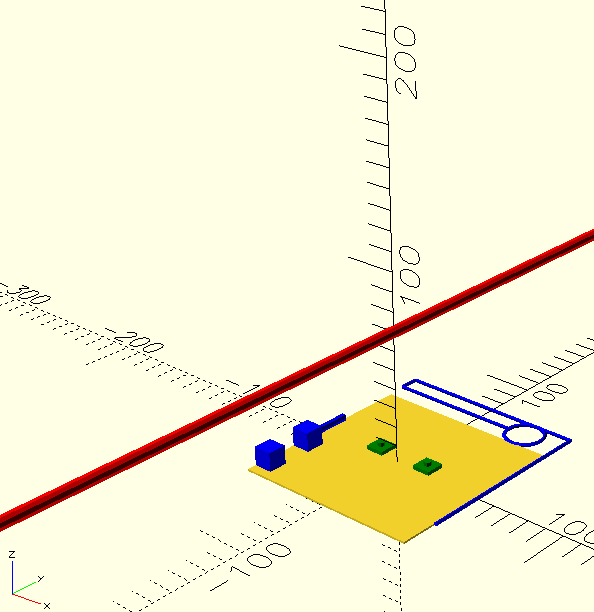
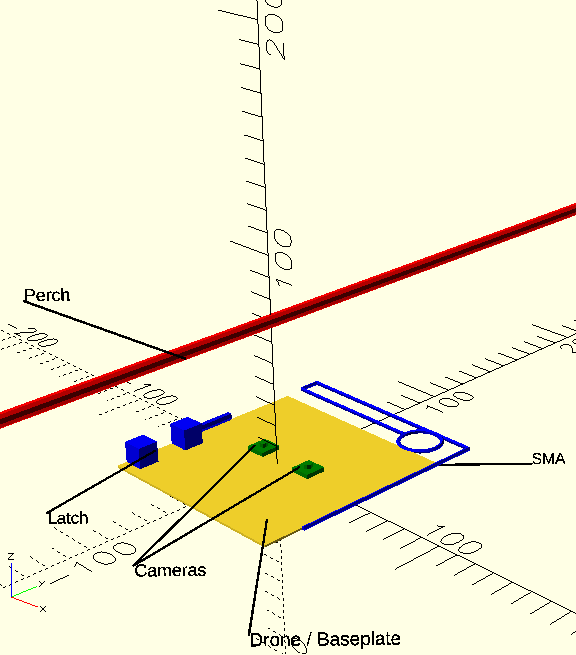
Add labels to SMA concept image

diff --git a/sections/methods/hardware.tex b/sections/methods/hardware.tex
@@ -9,19 +9,21 @@ An illustration of how this device is intended to attach a drone to a perch is s
 \begin{figure}[H]
     \centering
     \begin{subfigure}[b]{\textwidth}
-        \begin{subfigure}[b]{0.32\textwidth}
+        \begin{subfigure}[b]{0.49\textwidth}
             \includegraphics[width=\textwidth]{sections/methods/perch-illustration-approach.png}
             \caption{The perching mechanism beneath a perch.}
             \label{fig:perch-illustration:approach}
         \end{subfigure}
         \hfill
-        \begin{subfigure}[b]{0.32\textwidth}
+        \begin{subfigure}[b]{0.49\textwidth}
             \includegraphics[width=\textwidth]{sections/methods/perch-illustration-inpos.png}
             \caption{The perching mechanism ready to grasp a perch.}
             \label{fig:perch-illustration:inpos}
         \end{subfigure}
         \hfill
-        \begin{subfigure}[b]{0.32\textwidth}
+    \end{subfigure}
+    \begin{subfigure}[b]{0.49\textwidth}
+        \begin{subfigure}[b]{\textwidth}
             \includegraphics[width=\textwidth]{sections/methods/perch-illustration-attached.png}
             \caption{The perching mechanism attached to a perch.}
             \label{fig:perch-illustration:grasp}
